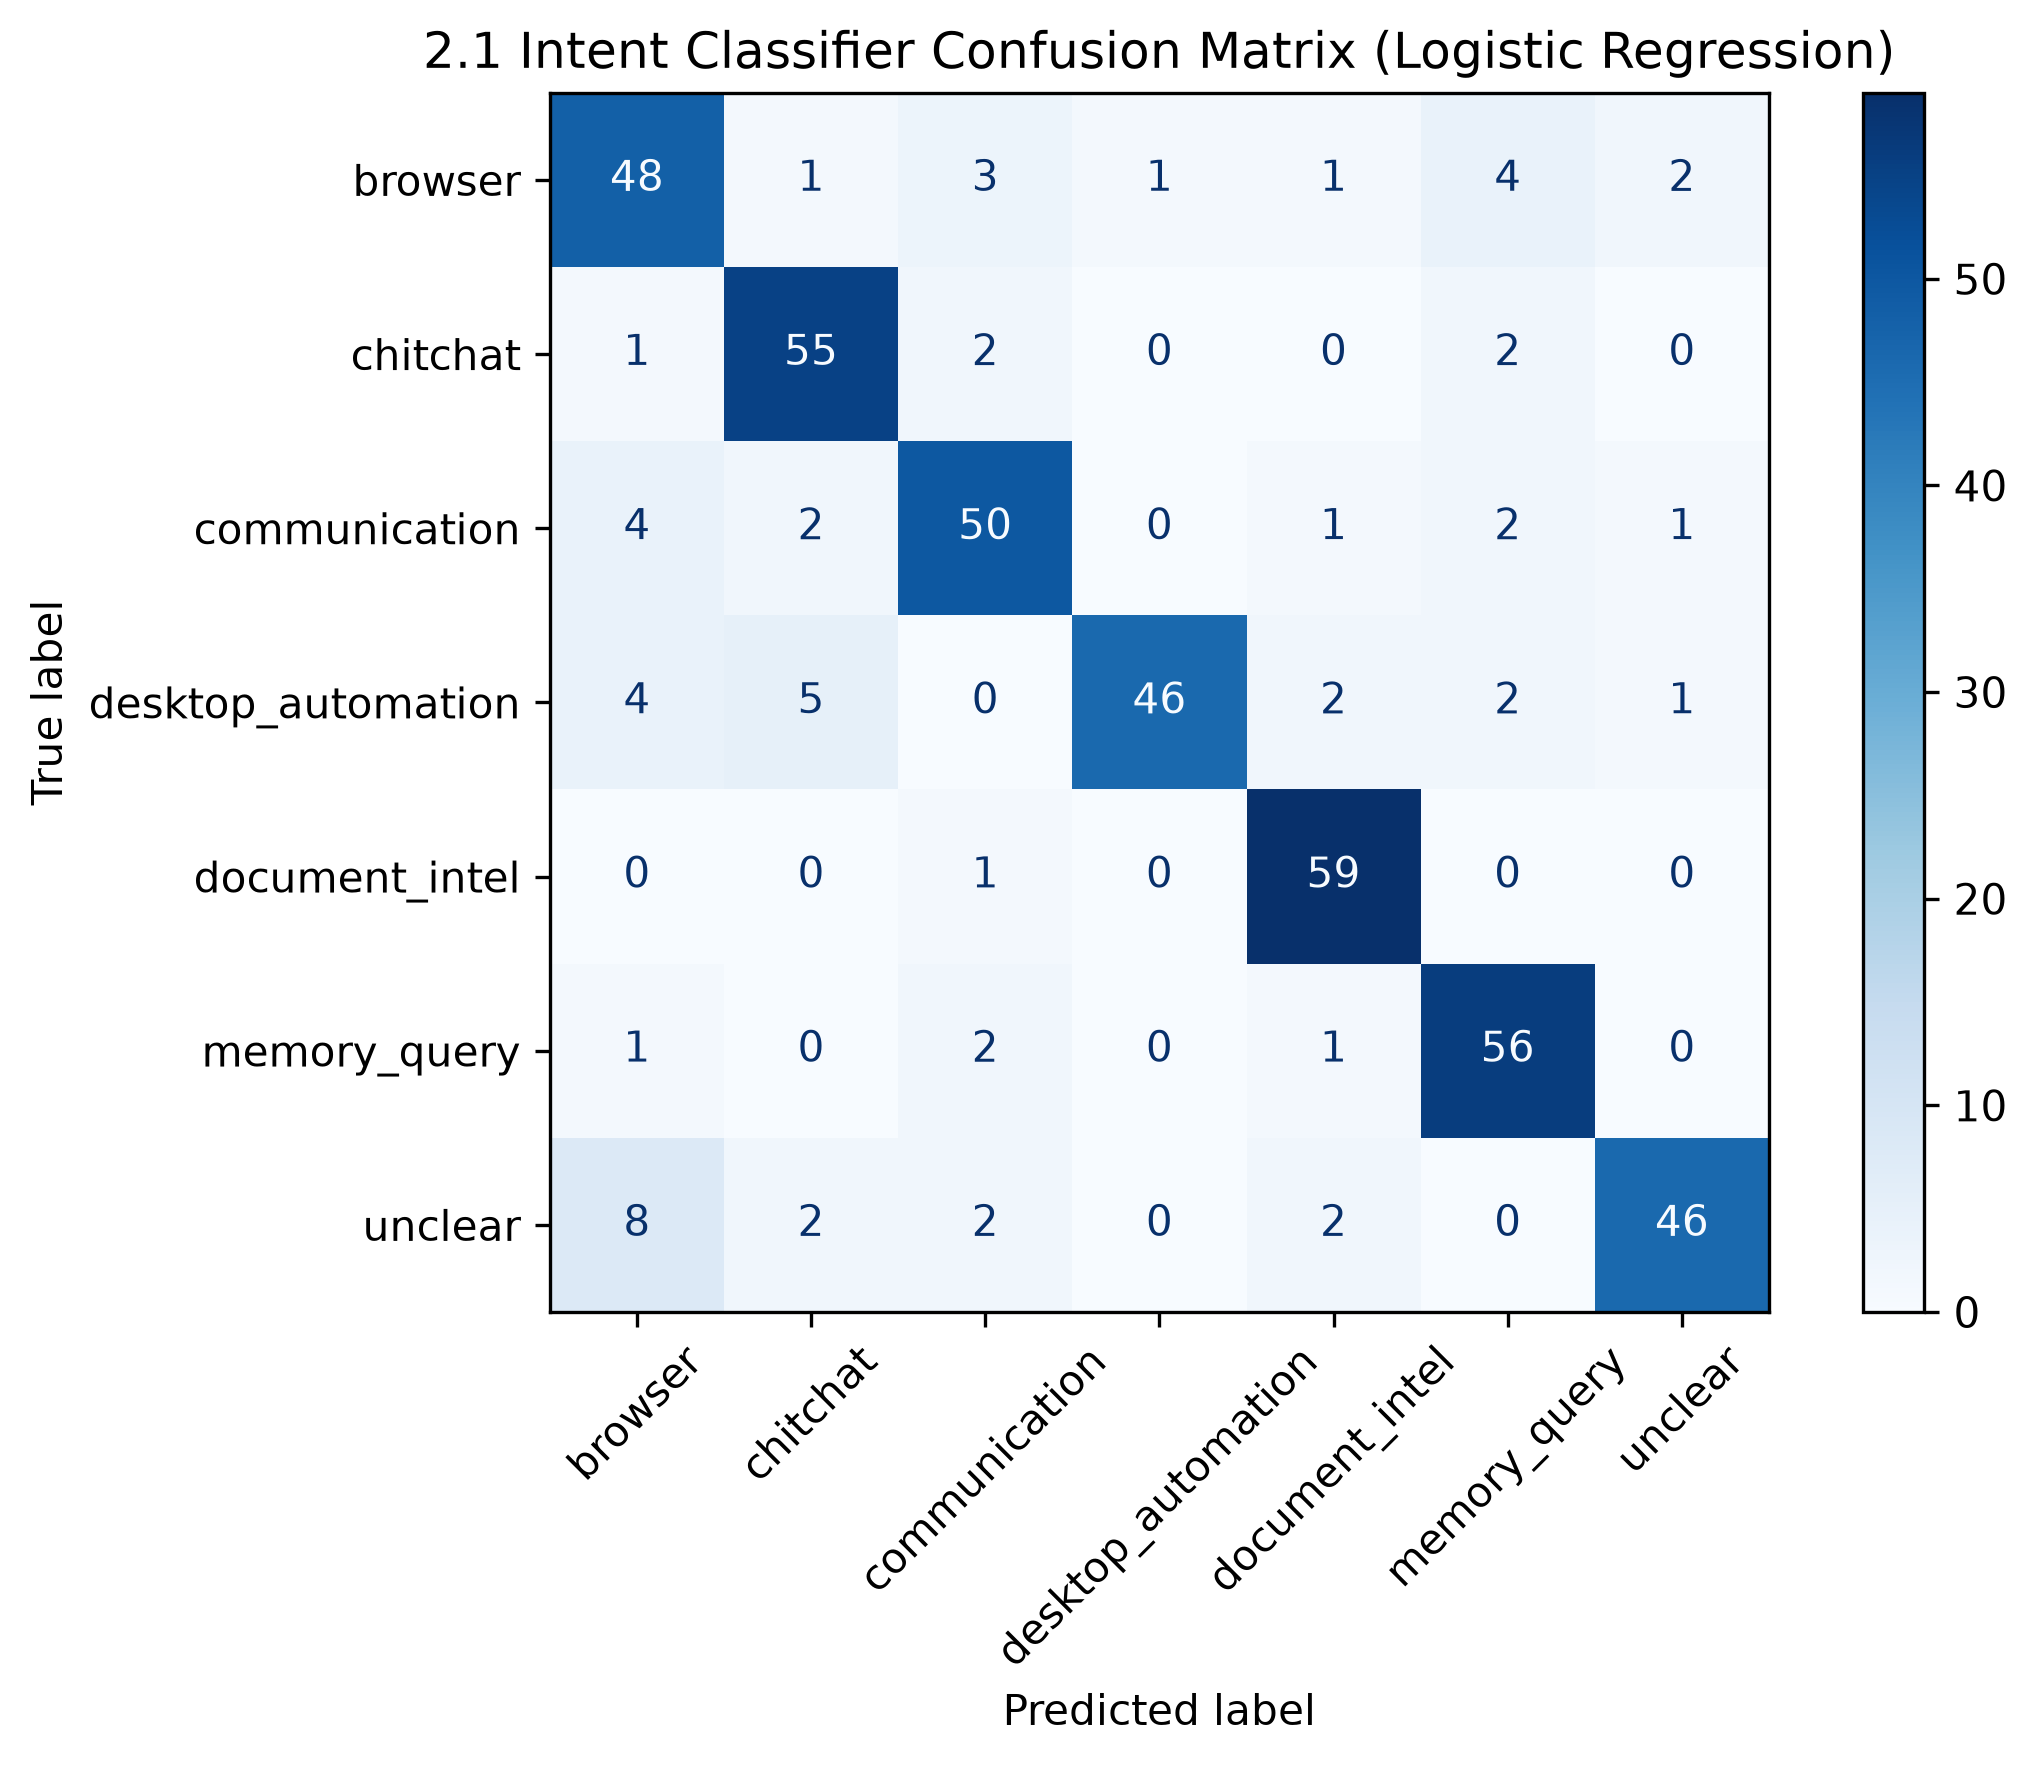
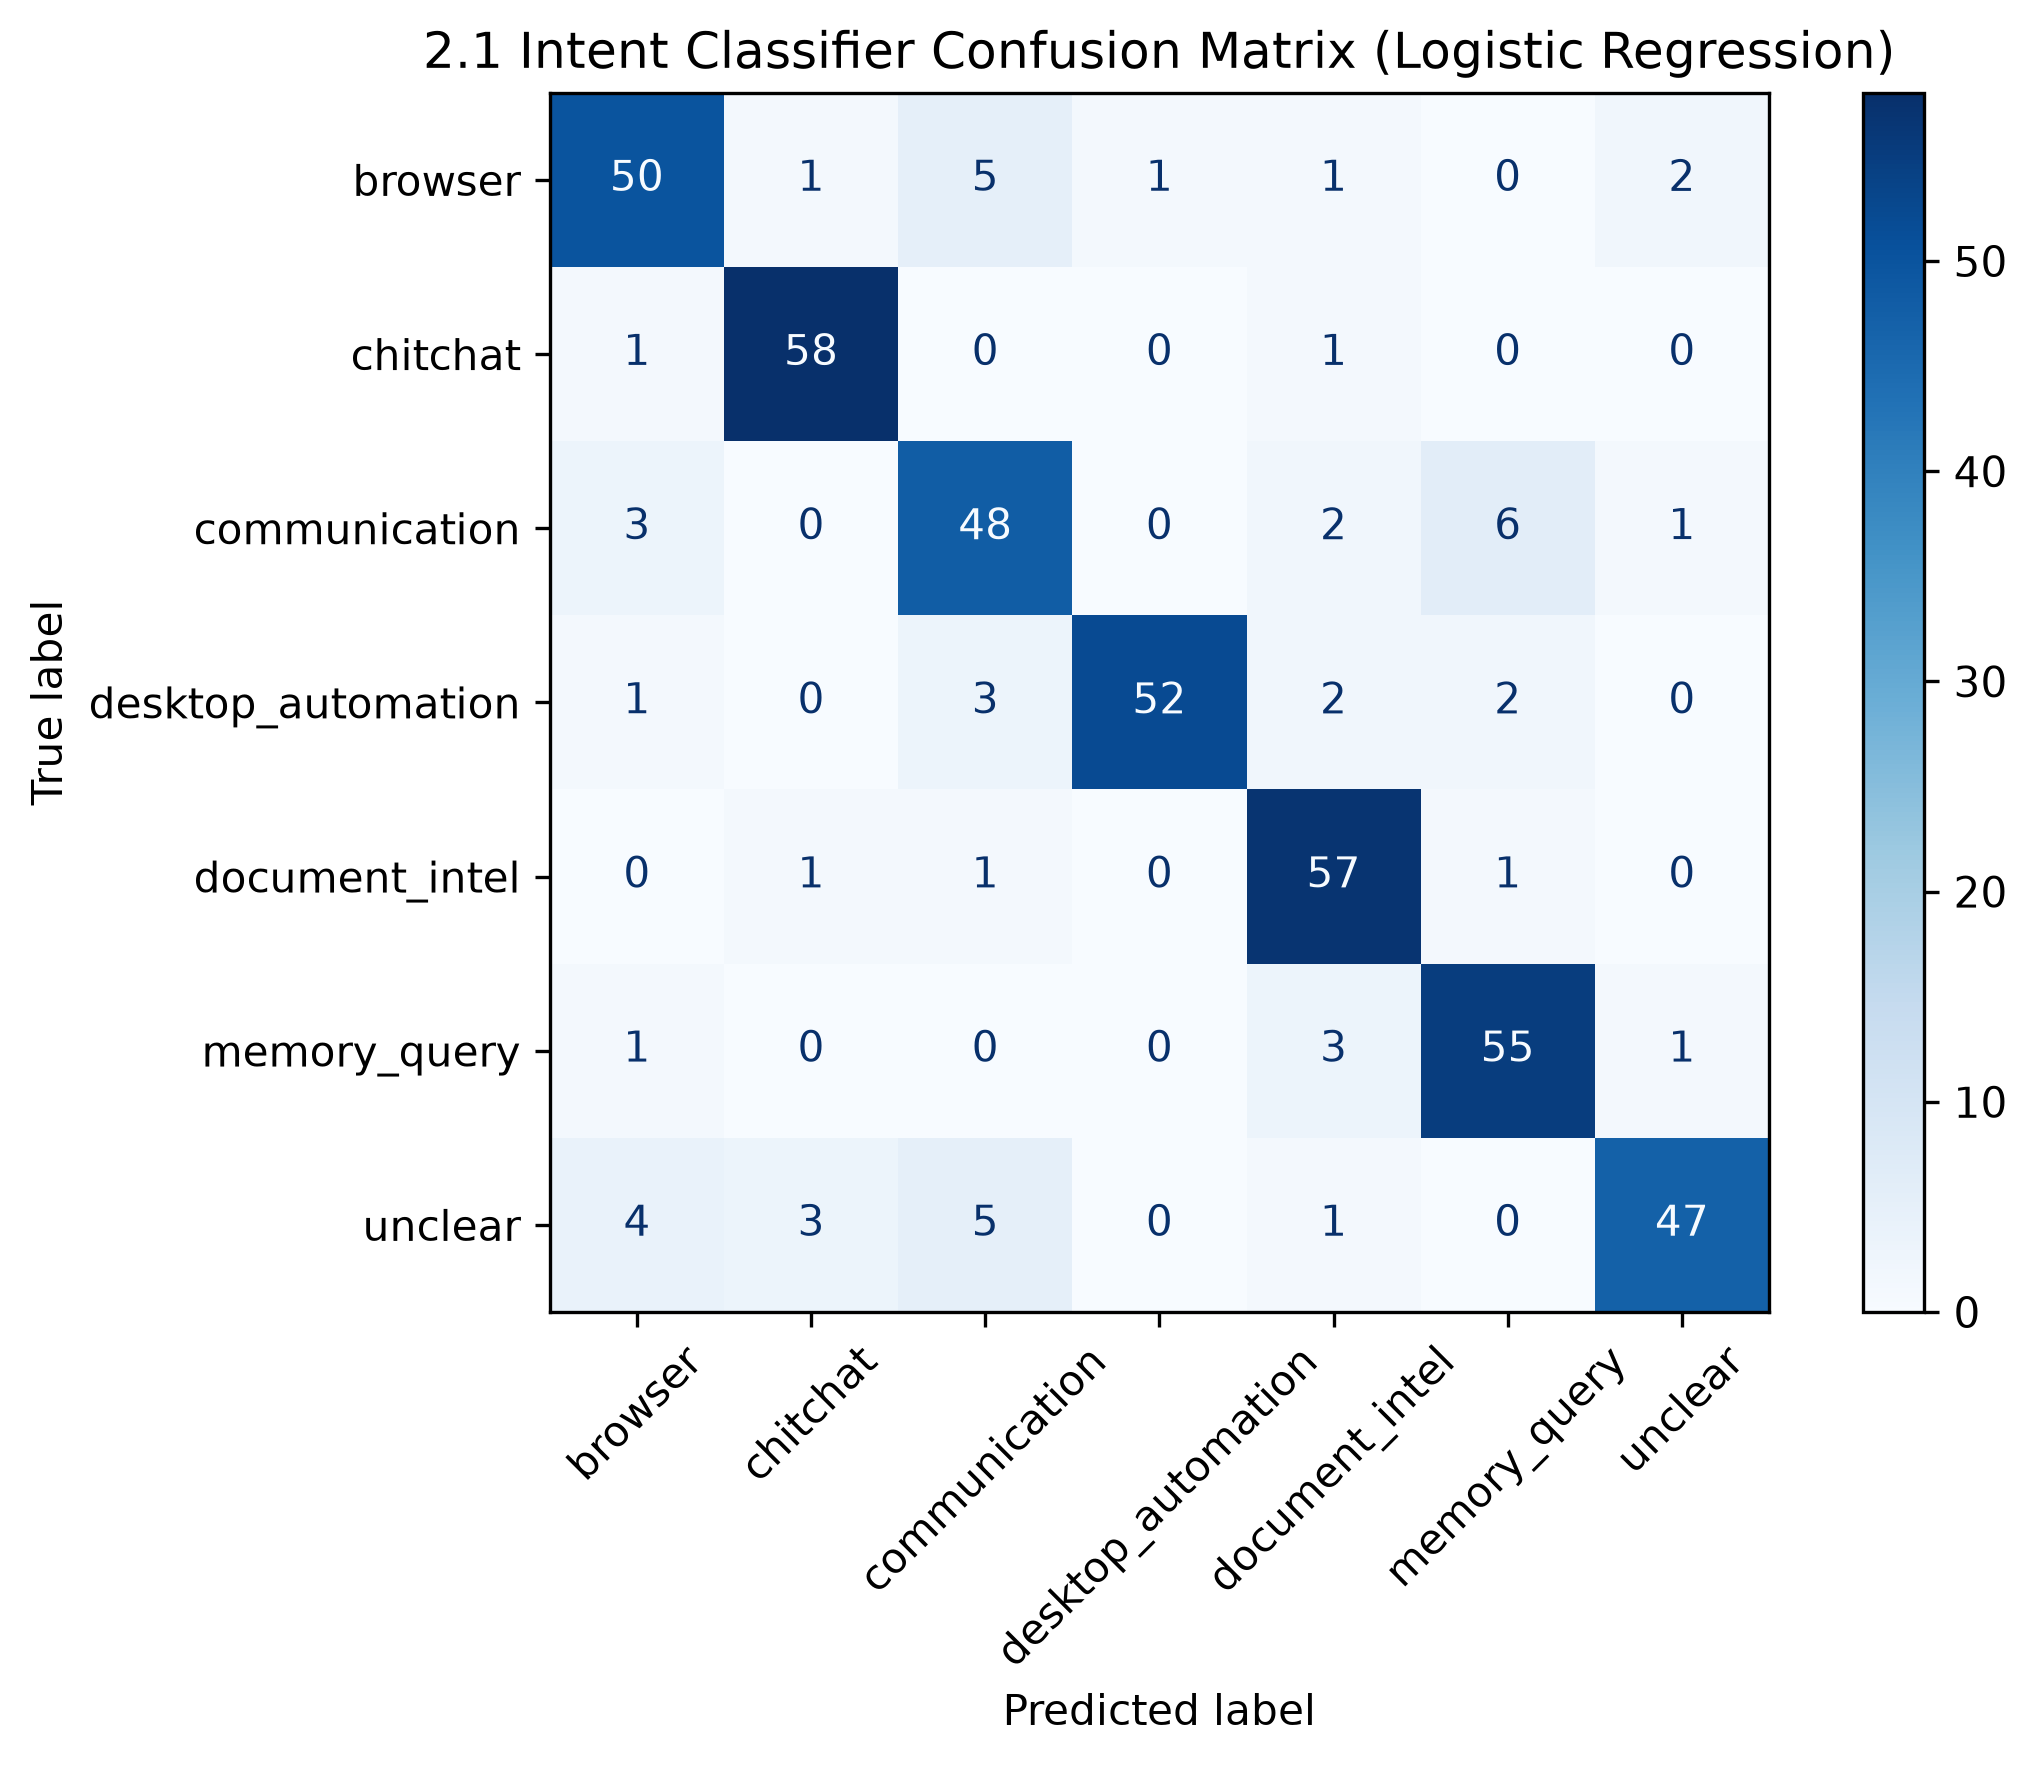
docs: refresh verified ML evidence and ignore report intermediates

diff --git a/reports/intent_classifier_report.md b/reports/intent_classifier_report.md
@@ -2,24 +2,24 @@
 
 Winner: **SVM** by macro-F1.
 
-Corpus: **17354** rows, 7 classes — 6751 real (Amazon MASSIVE, en-US) + 10603 generated.
+Corpus: **17354** rows, 7 classes — 6759 real (Amazon MASSIVE, en-US) + 10595 generated.
 
 ## Model comparison
 
 | model | accuracy | precision_macro | recall_macro | f1_macro | fit_seconds |
 | --- | --- | --- | --- | --- | --- |
-| SVM | 0.9193 | 0.9214 | 0.9196 | 0.9194 | 66.887 |
-| LogisticRegression | 0.9104 | 0.9125 | 0.9108 | 0.9101 | 1.581 |
-| KNN | 0.8951 | 0.8982 | 0.8957 | 0.8945 | 0.376 |
-| RandomForest | 0.8865 | 0.8879 | 0.8868 | 0.8865 | 5.449 |
-| DecisionTree | 0.5471 | 0.7632 | 0.5478 | 0.5808 | 0.985 |
+| SVM | 0.913 | 0.9139 | 0.9133 | 0.9133 | 68.779 |
+| LogisticRegression | 0.9041 | 0.905 | 0.9044 | 0.9044 | 1.361 |
+| RandomForest | 0.8908 | 0.8925 | 0.8912 | 0.8912 | 5.48 |
+| KNN | 0.8819 | 0.8833 | 0.8824 | 0.8818 | 0.343 |
+| DecisionTree | 0.5264 | 0.7544 | 0.5273 | 0.5544 | 1.053 |
 
 ## Best model — macro metrics
 
-- accuracy: 0.9193
-- precision (macro): 0.9214
-- recall (macro): 0.9196
-- f1 (macro): 0.9194
+- accuracy: 0.9130
+- precision (macro): 0.9139
+- recall (macro): 0.9133
+- f1 (macro): 0.9133
 
 ## What this number is, and is not
 
@@ -32,6 +32,6 @@ the app's own advertised commands and paraphrases of them.
 ## Which model production actually loads
 
 `get_trained_classifier()` fits **Logistic Regression**, not necessarily the
-winner above. On this corpus Logistic Regression fits in 1.58s against 66.89s for SVM, for +0.0093 macro-F1 — and the model is refitted whenever the cached artefact is missing, including on a fresh clone. The comparison is the coursework deliverable; the production choice is a latency trade-off, and stating both is the point.
+winner above. On this corpus Logistic Regression fits in 1.36s against 68.78s for SVM, for +0.0089 macro-F1 — and the model is refitted whenever the cached artefact is missing, including on a fresh clone. The comparison is the coursework deliverable; the production choice is a latency trade-off, and stating both is the point.
 
 _Generated by `py -3.12 -m ml.intent_classifier`._
